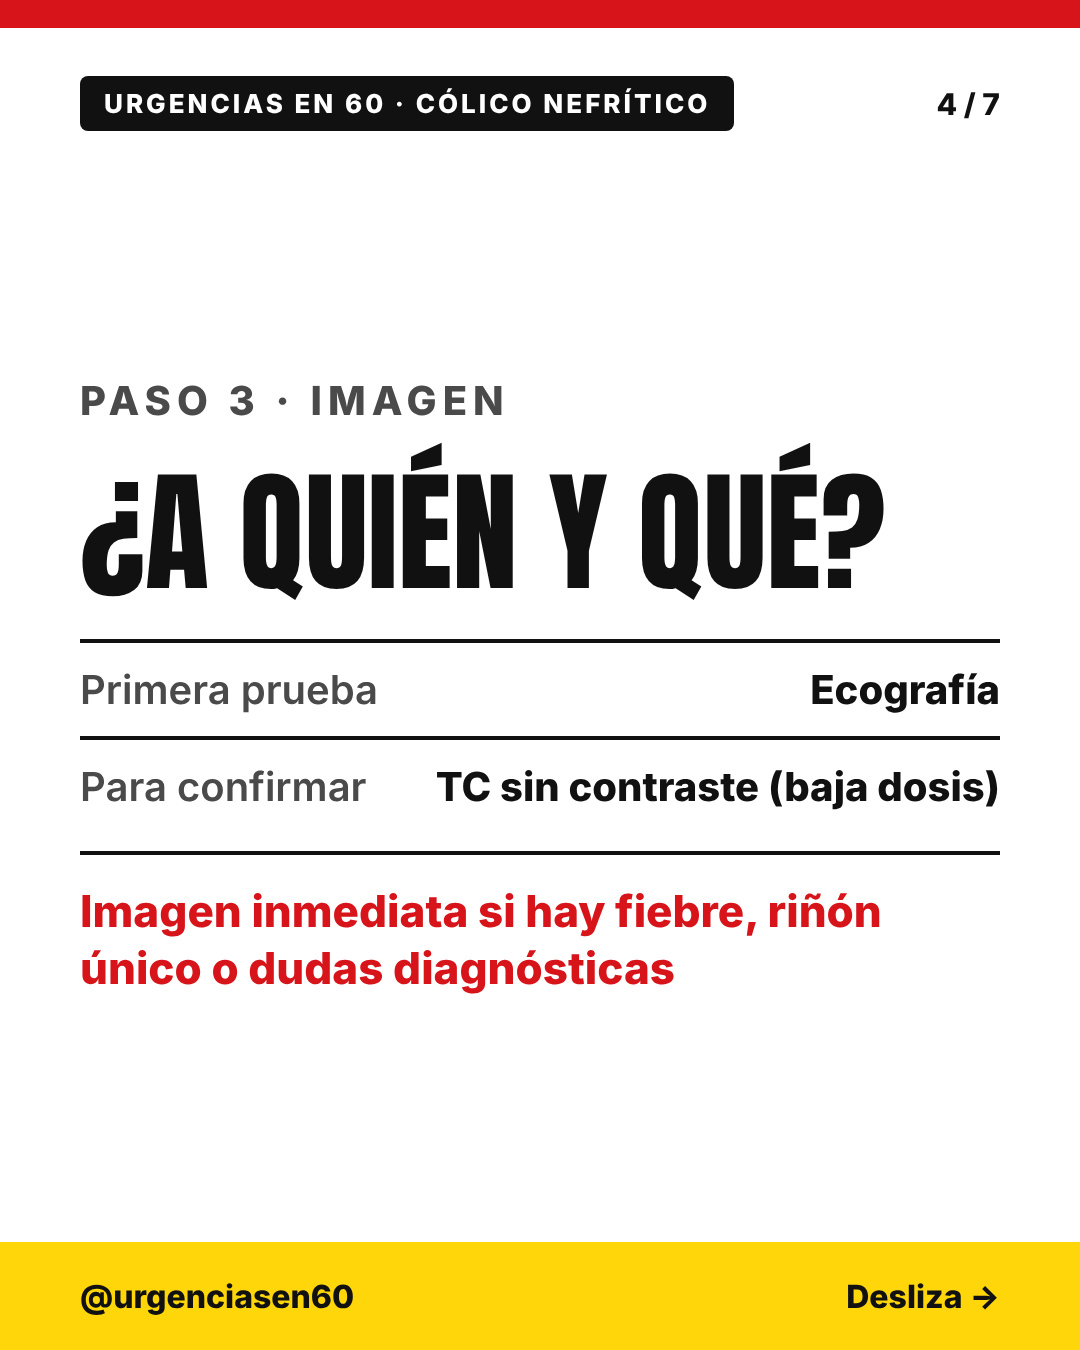
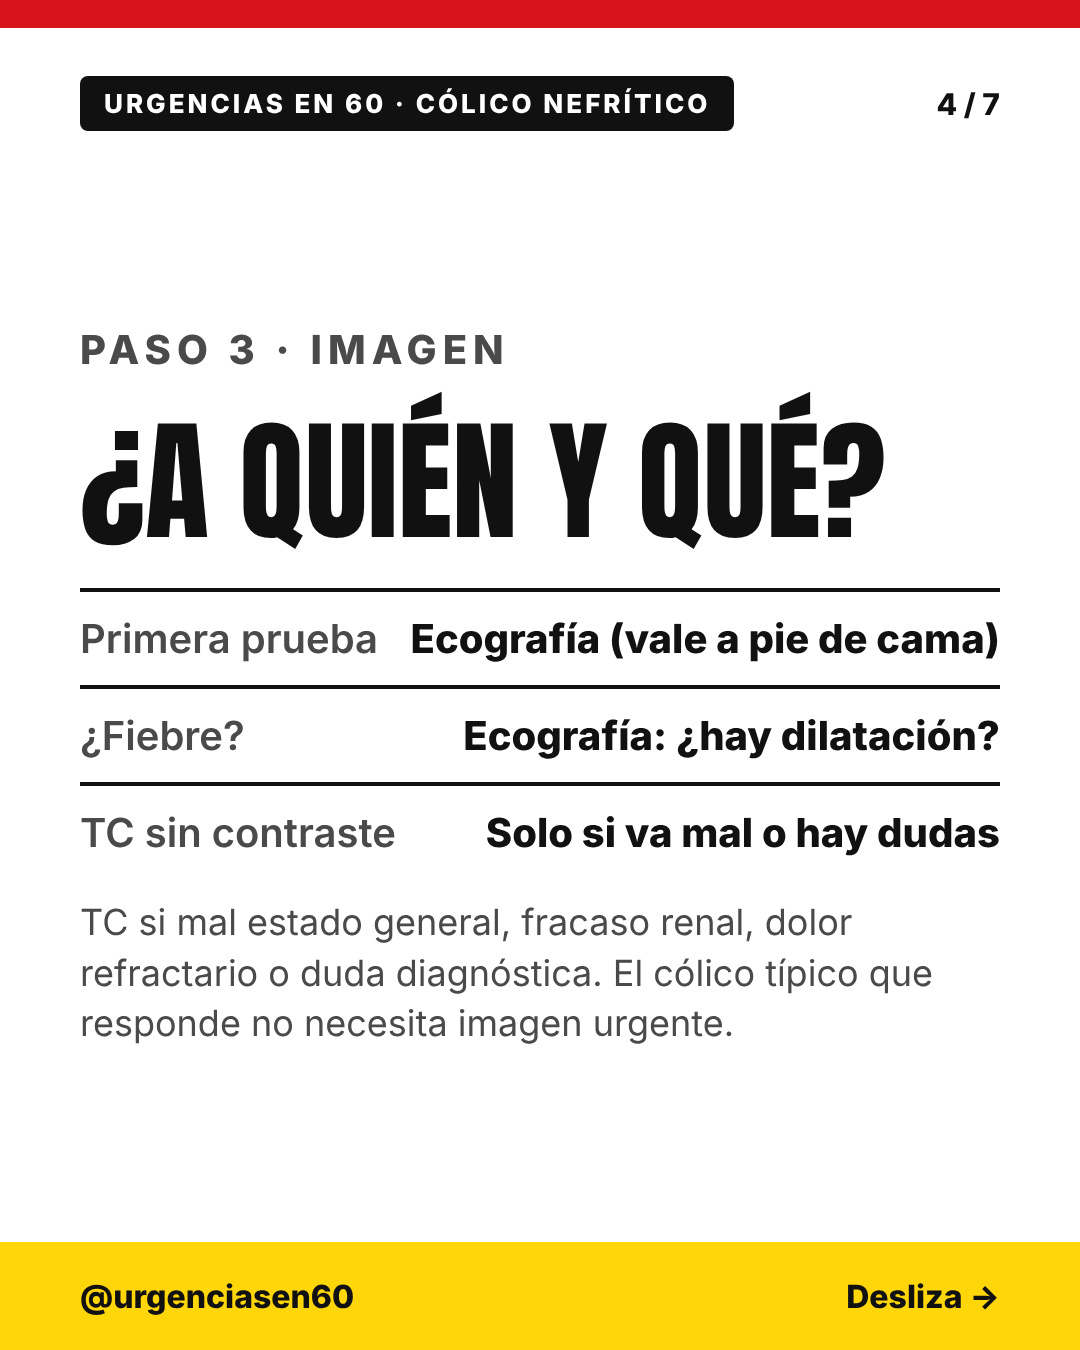
Cólico: imagen y aviso a Urología según la práctica de Urgencias
Claude-Session: https://claude.ai/code/session_019S5PG2ppqwuZwMv2DxeA6e

Changed region(s): [[0.0611, 0.2489, 0.9472, 0.7778]]

diff --git a/tools/colico.py b/tools/colico.py
@@ -7,9 +7,9 @@ P=[
 page(1,N,T,big("CÓLICO NEFRÍTICO",120,nowrap=True)+big(f'CON FIEBRE <span style="color:{R}">YA NO ES</span> UN CÓLICO SIMPLE',116)+'<div style="font-size:40px;font-weight:600;line-height:1.3;max-width:820px">Analgesia por escalones, qué imagen pedir y cuándo llamar a Urología. Con ficha final.</div>',cover=True),
 page(2,N,T,kicker("PASO 1 · ANALGESIA")+big("AINE PRIMERO",170,R,True)+rows(row("Vía","IV o IM"),row("Ejemplo","Dexketoprofeno o diclofenaco"),row("Si no cede","Repite a los 30–60 min"))+note("Los antiinflamatorios controlan el dolor mejor que los opioides y con menos vómitos. Valora el riesgo cardiovascular y la función renal antes de darlos.")),
 page(3,N,T,kicker("PASO 2 · SI NO BASTA")+big("SEGUNDO ESCALÓN",122,nowrap=True)+rows(line("Metamizol IV, asociado al antiinflamatorio"),line("Opioide (tramadol) si el dolor persiste",True),line("Antiemético si hay vómitos (metoclopramida)"))+note("No fuerces la hidratación en la fase aguda: aumenta el dolor y no acelera la expulsión.")),
-page(4,N,T,kicker("PASO 3 · IMAGEN")+big("¿A QUIÉN Y QUÉ?",132,nowrap=True)+rows(row("Primera prueba","Ecografía"),row("Para confirmar","TC sin contraste (baja dosis)"))+f'<div style="border-top:4px solid {K};padding-top:28px;font-size:44px;font-weight:800;line-height:1.3;color:{R}">Imagen inmediata si hay fiebre, riñón único o dudas diagnósticas</div>'),
+page(4,N,T,kicker("PASO 3 · IMAGEN")+big("¿A QUIÉN Y QUÉ?",132,nowrap=True)+rows(row("Primera prueba","Ecografía (vale a pie de cama)"),row("¿Fiebre?","Ecografía: ¿hay dilatación?"),row("TC sin contraste","Solo si va mal o hay dudas"))+note("TC si mal estado general, fracaso renal, dolor refractario o duda diagnóstica. El cólico típico que responde no necesita imagen urgente.")),
 page(5,N,T,kicker("LA URGENCIA REAL")+big("OBSTRUIDO E INFECTADO",104,R)+'<div style="font-size:50px;font-weight:800;line-height:1.2">Riñón obstruido + infección = descompresión urgente</div>'+rows(line("Cultivos, antibiótico y aviso a Urología"),line("Catéter doble J o nefrostomía; la litiasis se trata después",True))),
-page(6,N,T,kicker("ALTA O INGRESO")+big("AVISA A UROLOGÍA SI…",104)+rows(line("Fiebre o signos de sepsis",True),line("Anuria, riñón único o deterioro de la función renal"),line("Dolor que no cede con la analgesia"))+note("Al alta: antiinflamatorio pautado y, en litiasis ureteral distal de 5–10 mm, tamsulosina (uso fuera de ficha técnica).")),
-page(7,N,T,ficha_body("CÓLICO NEFRÍTICO","Adulto",[("1. ANALGESIA","AINE IV o IM (dexketoprofeno o diclofenaco), repetible a los 30–60 min",True),("2. SI NO CEDE","Añade metamizol IV. Opioide (tramadol) de segunda línea"),("IMAGEN","Ecografía; TC sin contraste para confirmar. Inmediata si fiebre, riñón único o duda"),("UROLOGÍA YA","Fiebre o sepsis, anuria, riñón único, fracaso renal, dolor refractario",True),("AL ALTA","AINE pautado. Tamsulosina si litiasis distal de 5–10 mm"),("EVITA","Sobrehidratar en la fase aguda")],"EAU Guidelines on Urolithiasis 2026; García Sierra A, et al. Cólico nefrítico en Atención Primaria",size=100,fs=32),ficha="06"),
+page(6,N,T,kicker("ALTA O INGRESO")+big("AVISA A UROLOGÍA SI…",104)+rows(line("Sepsis, o fiebre con riñón dilatado",True),line("Fracaso renal, anuria o riñón único"),line("Dolor que no cede con la analgesia"))+note("La fiebre aislada sin dilatación ni sepsis se trata como infección; no es por sí sola motivo de aviso. Al alta: AINE pautado y, en litiasis distal de 5–10 mm, tamsulosina (fuera de ficha técnica).")),
+page(7,N,T,ficha_body("CÓLICO NEFRÍTICO","Adulto",[("1. ANALGESIA","AINE IV o IM (dexketoprofeno o diclofenaco), repetible a los 30–60 min",True),("2. SI NO CEDE","Añade metamizol IV. Opioide (tramadol) de segunda línea"),("IMAGEN","Ecografía si fiebre o duda. TC solo si mal estado, fracaso renal, dolor refractario o duda diagnóstica"),("UROLOGÍA YA","Sepsis o fiebre con riñón dilatado, fracaso renal, anuria, riñón único, dolor refractario",True),("AL ALTA","AINE pautado. Tamsulosina si litiasis distal de 5–10 mm"),("EVITA","Sobrehidratar en la fase aguda")],"EAU Guidelines on Urolithiasis 2026; García Sierra A, et al. Cólico nefrítico en Atención Primaria",size=100,fs=32),ficha="06"),
 ]
 render(P,sys.argv[1] if len(sys.argv)>1 else "out","colico-nefritico")

diff --git a/borradores/REVISION.md b/borradores/REVISION.md
@@ -128,3 +128,4 @@ Dudas y discrepancias:
 - Criterios de ingreso: tabla 9 de GesEPOC (se omiten PaCO2 > 50 sin hipercapnia previa, comorbilidad y soporte domiciliario por espacio).
 - 21/11 (Eduardo): añadir dosis de hidrocortisona y noradrenalina y ejemplos de antibiótico (sin dosis). Dosis tomadas del protocolo basado en SSC 2021 (Michigan Medicine, NCBI Bookshelf NBK598311): NA inicio 0,05–0,15 µg/kg/min; vasopresina 0,03 UI/min cuando NA 0,25–0,5; hidrocortisona 50 mg/6 h si NA ≥ 4 h. Antibióticos: ejemplos genéricos [VERIFICAR con la guía antimicrobiana del HUPM (guia.implemento.es)].
 - 21/11: antibióticos cotejados con la guía antimicrobiana HUPM/H. San Carlos (guia.implemento.es, «Sepsis - Shock séptico», sin foco): ceftriaxona; asociada a cuidados o riesgo de multirresistentes: ceftriaxona + amikacina o pip-tazo; shock: meropenem + vancomicina (o daptomicina o linezolid) ± amikacina. Discrepancias con SSC 2026 que se dejan como en la SSC: fluidos 30 ml/kg en 3 h (la guía HUPM dice en los primeros 30 min) y cribado (HUPM usa qSOFA + criterios propios). La guía HUPM da noradrenalina 0,01–3 µg/kg/min «aumentando 0,5 µg/kg/min cada 3-5 min» (probable errata, 0,05) y prepara 10 mg en 50 ml de G5 % = 200 µg/ml.
+- 22/11 (Eduardo): en su Urgencias el cólico típico no lleva TC ni aviso a Urología solo por fiebre o una creatinina algo elevada; imagen si mal estado, fracaso renal importante, dolor refractario o duda. Ficha adaptada: ecografía (también a pie de cama) para ver dilatación si hay fiebre; Urología si sepsis o fiebre con riñón dilatado (riñón obstruido e infectado, que es lo que la EAU considera indicación de descompresión urgente), fracaso renal, anuria, riñón único o dolor refractario.
